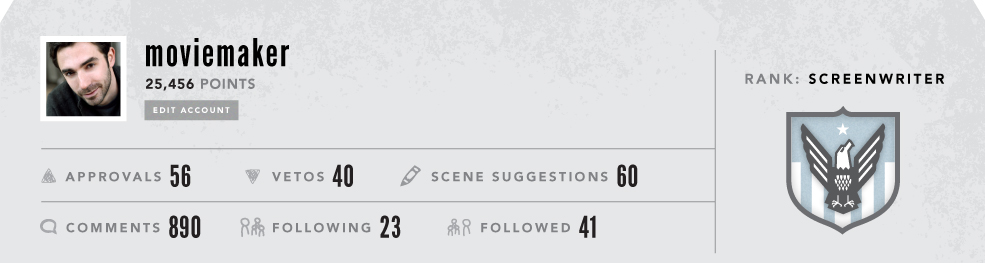
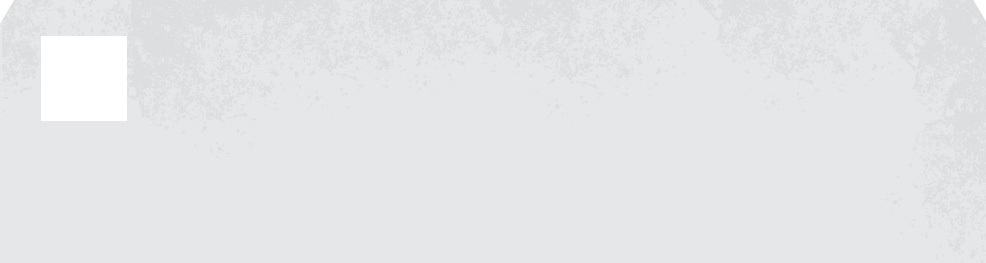
user-profile page

diff --git a/css/style.css b/css/style.css
@@ -2445,3 +2445,108 @@ a.more-details{
 .crown-trophy{
 	background:url(../images/small-crown.png) no-repeat center right;
 }
+
+.user-left{
+	width:670px;
+	border-right:1px solid #939598;
+	margin-left:40px;
+	float:left;
+	margin-top:-20px;
+}
+.user-left a.avatar{
+	float:left;
+	border:6px solid #ffffff;
+	display:block;
+	margin-top:6px;
+	margin-bottom:25px;
+}
+.user-left a.avatar img{
+	float:left;
+}
+.user-info{
+	float:left;
+	margin-left:20px;
+	font-family: "museo-sans-1","museo-sans-2";
+}
+.user-info h2{
+	font-size:38px;
+	font-family: "league-gothic-1","league-gothic-2";
+	font-weight:300;
+	color:#000000;
+	letter-spacing:2px;
+}
+.user-info p{
+	color:#231f20;
+	font-size:14px;
+	font-weight:bold;
+}
+.user-info p span{
+	color:#808285;
+}
+a.edit-account{
+	background:#a5a8a9;
+	padding:5px 18px 3px 8px;
+	font-size:8px;
+	color:#FFF;
+	text-decoration:none !important;
+	margin-top:3px;
+}
+.user-all{
+	border-top:1px solid #939598;
+	width:670px;
+	font-family: "museo-sans-1","museo-sans-2";
+	font-weight:bold;
+	padding:8px 0;
+}
+.clr{
+	height:0;
+	clear:both;
+}
+.user-all span{
+	color:#808285;
+	font-size:15px;
+	background:url(../images/user-sprite.png) no-repeat;
+	padding-left:25px;
+	margin-right:45px;
+}
+.user-all span a{
+	font-family: "league-gothic-1","league-gothic-2";
+	color:#231f20;
+	font-size:30px;
+	vertical-align:middle;
+	display:inline-block;
+	text-decoration:none;
+	font-weight:100;
+	margin-left:5px;
+}
+.user-all span.approvals{
+	background-position:0 1px;
+}
+.user-all span.vetos{
+	background-position:0 -16px;
+}
+.user-all span.scene-sugg{
+	background-position:0 -102px;
+}
+.user-all span.cmts{
+	background-position:0 -79px;
+}
+.user-all span.flw{
+	background-position:0 -35px;
+}
+.user-all span.flwd{
+	background-position:0 -57px;
+}
+.user-right{
+	text-align:center;
+}
+.user-right h4{
+	margin-top:20px;
+	color:#808285;
+	font-size:14px;
+	font-family: "museo-sans-1","museo-sans-2";
+	margin-bottom:15px;
+}
+.user-right h4 span{
+	color:#000000;
+}

diff --git a/user-profile.php b/user-profile.php
@@ -50,7 +50,31 @@
         <!-- Inlcude Header here... -->
             
         <?php include( 'header-simple.php' ); ?>
-            <div class="user-hero"></div>  
+            <div class="user-hero">
+            	<div class="user-left">
+                	<a href="#" class="avatar"><img src="images/user.png" width="74" height="74" alt="user"></a>
+                    <div class="user-info group">
+                    	<h2>moviemaker</h2>
+                        <p>25,456 <span>POINTS</span></p>
+                        <a href="#" class="edit-account">EDIT ACCOUNT</a>
+                    </div>
+                    <div class="clr"></div>
+                    <div class="user-all">
+                        <span class="approvals">APPROVALS <a href="#">56</a></span>	
+                        <span class="vetos">VETOS <a href="#">56</a></span>	
+                        <span class="scene-sugg">SCENE SUGGESTIONS <a href="#">56</a></span>	
+                    </div>
+                    <div class="user-all">
+                        <span class="cmts">COMMENTS <a href="#">56</a></span>	
+                        <span class="flw">FOLLOWING <a href="#">56</a></span>	
+                        <span class="flwd">FOLLOWED <a href="#">56</a></span>	
+                    </div>
+                </div>
+                <div class="user-right">
+                	<h4>RANK: <span>SCREENWRITER</span></h4>
+                    <img src="images/user-profile_06.png" width="115" height="131" alt="user">
+                </div>
+            </div>  
         </header>
         
         <div class="main">
